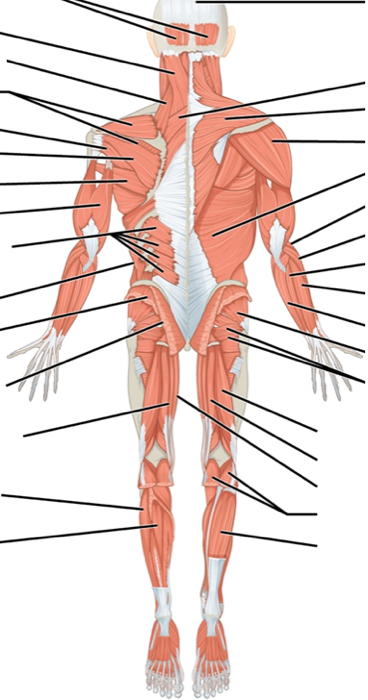
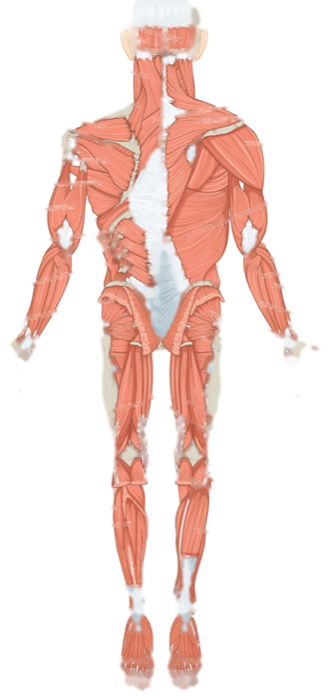
Remove anatomy-plate leader lines (inpainted), make Focus button unmissable, remember template exclusions, pull nutrition categories + cardiac/BP data from NutriTracker
- Body map images: OpenCV inpainting removes every leader-line/annotation
  mark from the OpenStax source plates — clean illustration, no more
  "looks like an annotated textbook page".
- Focus mode: replaced the small corner pill with a full-width primary
  button under each exercise ("Lancer le mode Focus") so it can't be missed.
- Template preview (chef musculaire + custom): exclusions are now
  remembered per template in localStorage, so re-using one doesn't reset
  every exercise back to selected.
- NutriTracker sync: nutrition pull now includes a byMeal breakdown
  (breakfast/lunch/dinner/snacks + item names) shown on Diet Deficit; new
  cardiac pull (heart rate + blood pressure from Apple Health/Withings)
  shown on Récupération and fed into the AI recovery analysis.

diff --git a/src/pages/recovery/RecoveryPage.tsx b/src/pages/recovery/RecoveryPage.tsx
@@ -25,6 +25,7 @@ import ActivityHero from '../../components/ActivityHero'
 import BackButton from '../../components/BackButton'
 import { pushRecord, deleteRecord } from '../../lib/cloudSync'
 import { analyzeRecovery, type RecoveryInsight } from '../../lib/aiInsights'
+import { pullCardiacRangeFromNutriTracker, type RemoteCardiacDay } from '../../lib/nutriTrackerSync'
 import { Sparkles, Loader2 } from 'lucide-react'
 import type { RecoveryCheckin } from '../../types'
 
@@ -81,6 +82,7 @@ export default function RecoveryPage() {
   const [aiLoading, setAiLoading] = useState(false)
   const [aiResult, setAiResult] = useState<RecoveryInsight | null>(null)
   const [aiError, setAiError] = useState(false)
+  const [cardiac, setCardiac] = useState<RemoteCardiacDay[]>([])
   const settings = getSettings()
 
   async function refresh() {
@@ -92,6 +94,7 @@ export default function RecoveryPage() {
     setSleepDebt(await computeSleepDebt(settings.sleepTargetMin))
     setStreak(await computeActivityStreak(settings.ageYears))
     setMonotony(await computeTrainingMonotony(settings.ageYears))
+    pullCardiacRangeFromNutriTracker(14).then(setCardiac)
     const today = all.find((c) => c.date === todayStr())
     if (today) {
       setSleepQuality(today.sleepQuality)
@@ -201,6 +204,37 @@ export default function RecoveryPage() {
       </div>
 
       <div className="glass mb-4 rounded-2xl p-3.5">
+        <p className="mb-2 flex items-center gap-1 text-xs text-zinc-500">
+          <HeartPulse size={12} /> Cardio & tension (NutriTracker)
+        </p>
+        {cardiac.length > 0 ? (
+          (() => {
+            const latest = cardiac[0]
+            return (
+              <div className="grid grid-cols-2 gap-3">
+                <div>
+                  <p className="text-xl font-bold text-red-400">
+                    {latest.heartRateResting ?? latest.heartRateAvg ?? '—'}
+                    <span className="ml-1 text-[10px] font-normal text-zinc-600">bpm</span>
+                  </p>
+                  <p className="text-[10px] text-zinc-600">{latest.heartRateResting != null ? 'FC repos' : 'FC moyenne'} · {latest.date}</p>
+                </div>
+                <div>
+                  <p className="text-xl font-bold text-indigo-300">
+                    {latest.systolicBP != null && latest.diastolicBP != null ? `${latest.systolicBP}/${latest.diastolicBP}` : '—'}
+                    <span className="ml-1 text-[10px] font-normal text-zinc-600">mmHg</span>
+                  </p>
+                  <p className="text-[10px] text-zinc-600">Tension artérielle</p>
+                </div>
+              </div>
+            )
+          })()
+        ) : (
+          <p className="text-xl font-bold text-zinc-600">—</p>
+        )}
+      </div>
+
+      <div className="glass mb-4 rounded-2xl p-3.5">
         <div className="mb-1 flex items-center justify-between">
           <p className="flex items-center gap-1 text-xs text-zinc-500">
             <Gauge size={12} /> Charge aiguë/chronique (ACWR)
@@ -306,6 +340,7 @@ export default function RecoveryPage() {
             streak,
             readiness,
             monotony,
+            cardiac: cardiac.slice(0, 7),
           })
           setAiLoading(false)
           if (!result) setAiError(true)

diff --git a/src/pages/gym/GymHome.tsx b/src/pages/gym/GymHome.tsx
@@ -7,6 +7,7 @@ import { formatDate, formatTime } from '../../lib/date'
 import { ALL_EXERCISES } from '../../lib/exercises'
 import { TRAINING_TEMPLATES, type TrainingTemplate } from '../../lib/trainingTemplates'
 import { getCustomTemplates, deleteCustomTemplate } from '../../lib/customTemplates'
+import { getLastExclusions, saveLastExclusions } from '../../lib/templateExclusions'
 import ActivityHero from '../../components/ActivityHero'
 import BackButton from '../../components/BackButton'
 import type { CustomTemplate, Workout, WorkoutExercise } from '../../types'
@@ -289,7 +290,14 @@ function CustomTemplatePreview({
   onStart: (excludedIds: Set<string>) => void
   onDelete: () => void
 }) {
-  const [excluded, setExcluded] = useState<Set<string>>(new Set())
+  const [excluded, setExcluded] = useState<Set<string>>(() => {
+    // Ne garde que les exclusions qui correspondent encore à un exercice du
+    // template (il peut avoir changé depuis) — sinon un id périmé ne ferait
+    // simplement rien, sans casser l'affichage.
+    const saved = getLastExclusions(template.id)
+    const validIds = new Set(template.exercises.map((te) => te.exerciseId))
+    return new Set([...saved].filter((id) => validIds.has(id)))
+  })
   const selectedCount = template.exercises.length - excluded.size
 
   function toggle(exerciseId: string) {
@@ -297,6 +305,7 @@ function CustomTemplatePreview({
       const next = new Set(prev)
       if (next.has(exerciseId)) next.delete(exerciseId)
       else next.add(exerciseId)
+      saveLastExclusions(template.id, next)
       return next
     })
   }
@@ -391,7 +400,11 @@ function TemplatePreview({
   onClose: () => void
   onStart: (excludedIds: Set<string>) => void
 }) {
-  const [excluded, setExcluded] = useState<Set<string>>(new Set())
+  const [excluded, setExcluded] = useState<Set<string>>(() => {
+    const saved = getLastExclusions(template.id)
+    const validIds = new Set(template.exercises.map((te) => te.exerciseId))
+    return new Set([...saved].filter((id) => validIds.has(id)))
+  })
   const selectedCount = template.exercises.length - excluded.size
 
   function toggle(exerciseId: string) {
@@ -399,6 +412,7 @@ function TemplatePreview({
       const next = new Set(prev)
       if (next.has(exerciseId)) next.delete(exerciseId)
       else next.add(exerciseId)
+      saveLastExclusions(template.id, next)
       return next
     })
   }

diff --git a/src/pages/nutrition/NutritionPage.tsx b/src/pages/nutrition/NutritionPage.tsx
@@ -7,7 +7,7 @@ import { getSettings } from '../../lib/settings'
 import { isSameDay, formatTime, formatDate, formatFullDate, todayStr, addDays } from '../../lib/date'
 import { getAllWorkouts, estimateWorkoutCalories } from '../../lib/workouts'
 import { getWeightLogs, logWeight, deleteWeightLog, adoptWeightFromSync } from '../../lib/weight'
-import { pushFoodToNutriTracker, pullLatestWeightFromNutriTracker, pullNutritionFromNutriTracker, type RemoteNutritionTotals } from '../../lib/nutriTrackerSync'
+import { pushFoodToNutriTracker, pullLatestWeightFromNutriTracker, pullNutritionFromNutriTracker, MEAL_LABELS, type RemoteNutritionTotals } from '../../lib/nutriTrackerSync'
 import { getGoogleFitForDate } from '../../lib/googleFit'
 import { computeCaloriesFromSteps } from '../../lib/met'
 import { computeDailyRecovery } from '../../lib/recovery'
@@ -212,6 +212,28 @@ export default function NutritionPage() {
           </p>
         )}
       </div>
+
+      {remoteNutrition && Object.keys(remoteNutrition.byMeal).length > 0 && (
+        <div className="glass mb-4 rounded-2xl p-4">
+          <p className="mb-2 text-xs text-zinc-500">Par catégorie (NutriTracker)</p>
+          <ul className="space-y-2">
+            {(['breakfast', 'lunch', 'dinner', 'snacks'] as const)
+              .filter((meal) => remoteNutrition.byMeal[meal])
+              .map((meal) => {
+                const m = remoteNutrition.byMeal[meal]!
+                return (
+                  <li key={meal} className="text-xs">
+                    <div className="flex items-center justify-between">
+                      <span className="font-medium text-zinc-300">{MEAL_LABELS[meal]}</span>
+                      <span className="font-mono text-zinc-400">{Math.round(m.calories)} kcal</span>
+                    </div>
+                    {m.items.length > 0 && <p className="mt-0.5 truncate text-[11px] text-zinc-600">{m.items.join(', ')}</p>}
+                  </li>
+                )
+              })}
+          </ul>
+        </div>
+      )}
 
       {totalBurned > 0 && (
         <div className="glass mb-4 rounded-2xl p-4">

diff --git a/src/lib/nutriTrackerSync.ts b/src/lib/nutriTrackerSync.ts
@@ -92,6 +92,15 @@ export async function pullGoogleFitFromNutriTracker(days = 7): Promise<GoogleFit
   }
 }
 
+export type MealCategory = 'breakfast' | 'lunch' | 'dinner' | 'snacks'
+
+export const MEAL_LABELS: Record<MealCategory, string> = {
+  breakfast: 'Petit-déjeuner',
+  lunch: 'Déjeuner',
+  dinner: 'Dîner',
+  snacks: 'Collations',
+}
+
 export interface RemoteNutritionTotals {
   date: string
   calories: number
@@ -100,9 +109,10 @@ export interface RemoteNutritionTotals {
   fatG: number
   sugarG: number
   entryCount: number
+  byMeal: Partial<Record<MealCategory, { calories: number; items: string[] }>>
 }
 
-const EMPTY_NUTRITION: RemoteNutritionTotals = { date: '', calories: 0, proteinG: 0, carbsG: 0, fatG: 0, sugarG: 0, entryCount: 0 }
+const EMPTY_NUTRITION: RemoteNutritionTotals = { date: '', calories: 0, proteinG: 0, carbsG: 0, fatG: 0, sugarG: 0, entryCount: 0, byMeal: {} }
 
 /** Total du jour loggé directement dans NutriTracker (hors ce que VibeFit lui
  * a déjà poussé — le serveur les exclut), pour compléter la balance
@@ -120,9 +130,32 @@ export async function pullNutritionFromNutriTracker(date: string): Promise<Remot
       fatG: data.fatG ?? 0,
       sugarG: data.sugarG ?? 0,
       entryCount: data.entryCount ?? 0,
+      byMeal: data.byMeal ?? {},
     }
   } catch {
     return EMPTY_NUTRITION
+  }
+}
+
+export interface RemoteCardiacDay {
+  date: string
+  heartRateAvg: number | null
+  heartRateResting: number | null
+  systolicBP: number | null
+  diastolicBP: number | null
+  source: string
+}
+
+/** FC (moyenne/repos) et tension artérielle des N derniers jours connus côté
+ * NutriTracker (Apple Health / Withings) — VibeFit n'a pas de capteur propre. */
+export async function pullCardiacRangeFromNutriTracker(days = 14): Promise<RemoteCardiacDay[]> {
+  try {
+    const r = await fetch(`/api/nutritracker?type=cardiac&days=${days}`)
+    if (!r.ok) return []
+    const data = await r.json()
+    return Array.isArray(data.days) ? data.days : []
+  } catch {
+    return []
   }
 }
 

diff --git a/src/pages/gym/WorkoutRunner.tsx b/src/pages/gym/WorkoutRunner.tsx
@@ -325,23 +325,22 @@ function ExerciseBlock({
               Dernière fois : {last.weightKg}kg × {last.reps}
             </p>
           )}
-          <div className="flex gap-1.5">
-            <button
-              onClick={onFocus}
-              className="flex items-center gap-1 rounded-full bg-orange-500/15 px-2 py-1 text-[11px] font-medium text-orange-400 active:bg-orange-500/25"
-            >
-              <Play size={12} /> Focus
-            </button>
-            <button
-              onClick={() => setMeterOpen(true)}
-              className="flex items-center gap-1 rounded-full bg-zinc-900 px-2 py-1 text-[11px] font-medium text-red-400 active:bg-zinc-800"
-            >
-              <HeartPulse size={12} /> Mesurer
-            </button>
-          </div>
+          <button
+            onClick={() => setMeterOpen(true)}
+            className="flex items-center gap-1 rounded-full bg-zinc-900 px-2 py-1 text-[11px] font-medium text-red-400 active:bg-zinc-800"
+          >
+            <HeartPulse size={12} /> Mesurer
+          </button>
         </div>
       </div>
       {we.note && <p className="mb-2.5 text-xs leading-snug text-zinc-500">{we.note}</p>}
+
+      <button
+        onClick={onFocus}
+        className="mb-2.5 flex w-full items-center justify-center gap-2 rounded-xl bg-orange-500 py-2.5 text-sm font-bold text-zinc-950 active:bg-orange-400"
+      >
+        <Play size={16} fill="currentColor" /> Lancer le mode Focus
+      </button>
 
       {displayHeartRate && (
         <div className="mb-2.5 flex items-center gap-3 rounded-xl bg-zinc-900/70 px-3 py-2.5">

diff --git a/src/lib/templateExclusions.ts b/src/lib/templateExclusions.ts
@@ -1,0 +1,25 @@
+// Mémorise, par template (chef musculaire ou personnalisé), les exercices
+// décochés la dernière fois qu'on l'a démarré — sinon chaque réutilisation
+// reproposait tout, y compris ce qu'on avait explicitement retiré la fois
+// d'avant.
+
+const PREFIX = 'fit2be:templateExclusions:'
+
+export function getLastExclusions(templateId: string): Set<string> {
+  try {
+    const raw = localStorage.getItem(PREFIX + templateId)
+    if (!raw) return new Set()
+    const ids = JSON.parse(raw)
+    return Array.isArray(ids) ? new Set(ids) : new Set()
+  } catch {
+    return new Set()
+  }
+}
+
+export function saveLastExclusions(templateId: string, excluded: Set<string>): void {
+  try {
+    localStorage.setItem(PREFIX + templateId, JSON.stringify([...excluded]))
+  } catch {
+    // stockage indisponible (mode privé, quota) — pas bloquant, juste pas de mémorisation
+  }
+}
